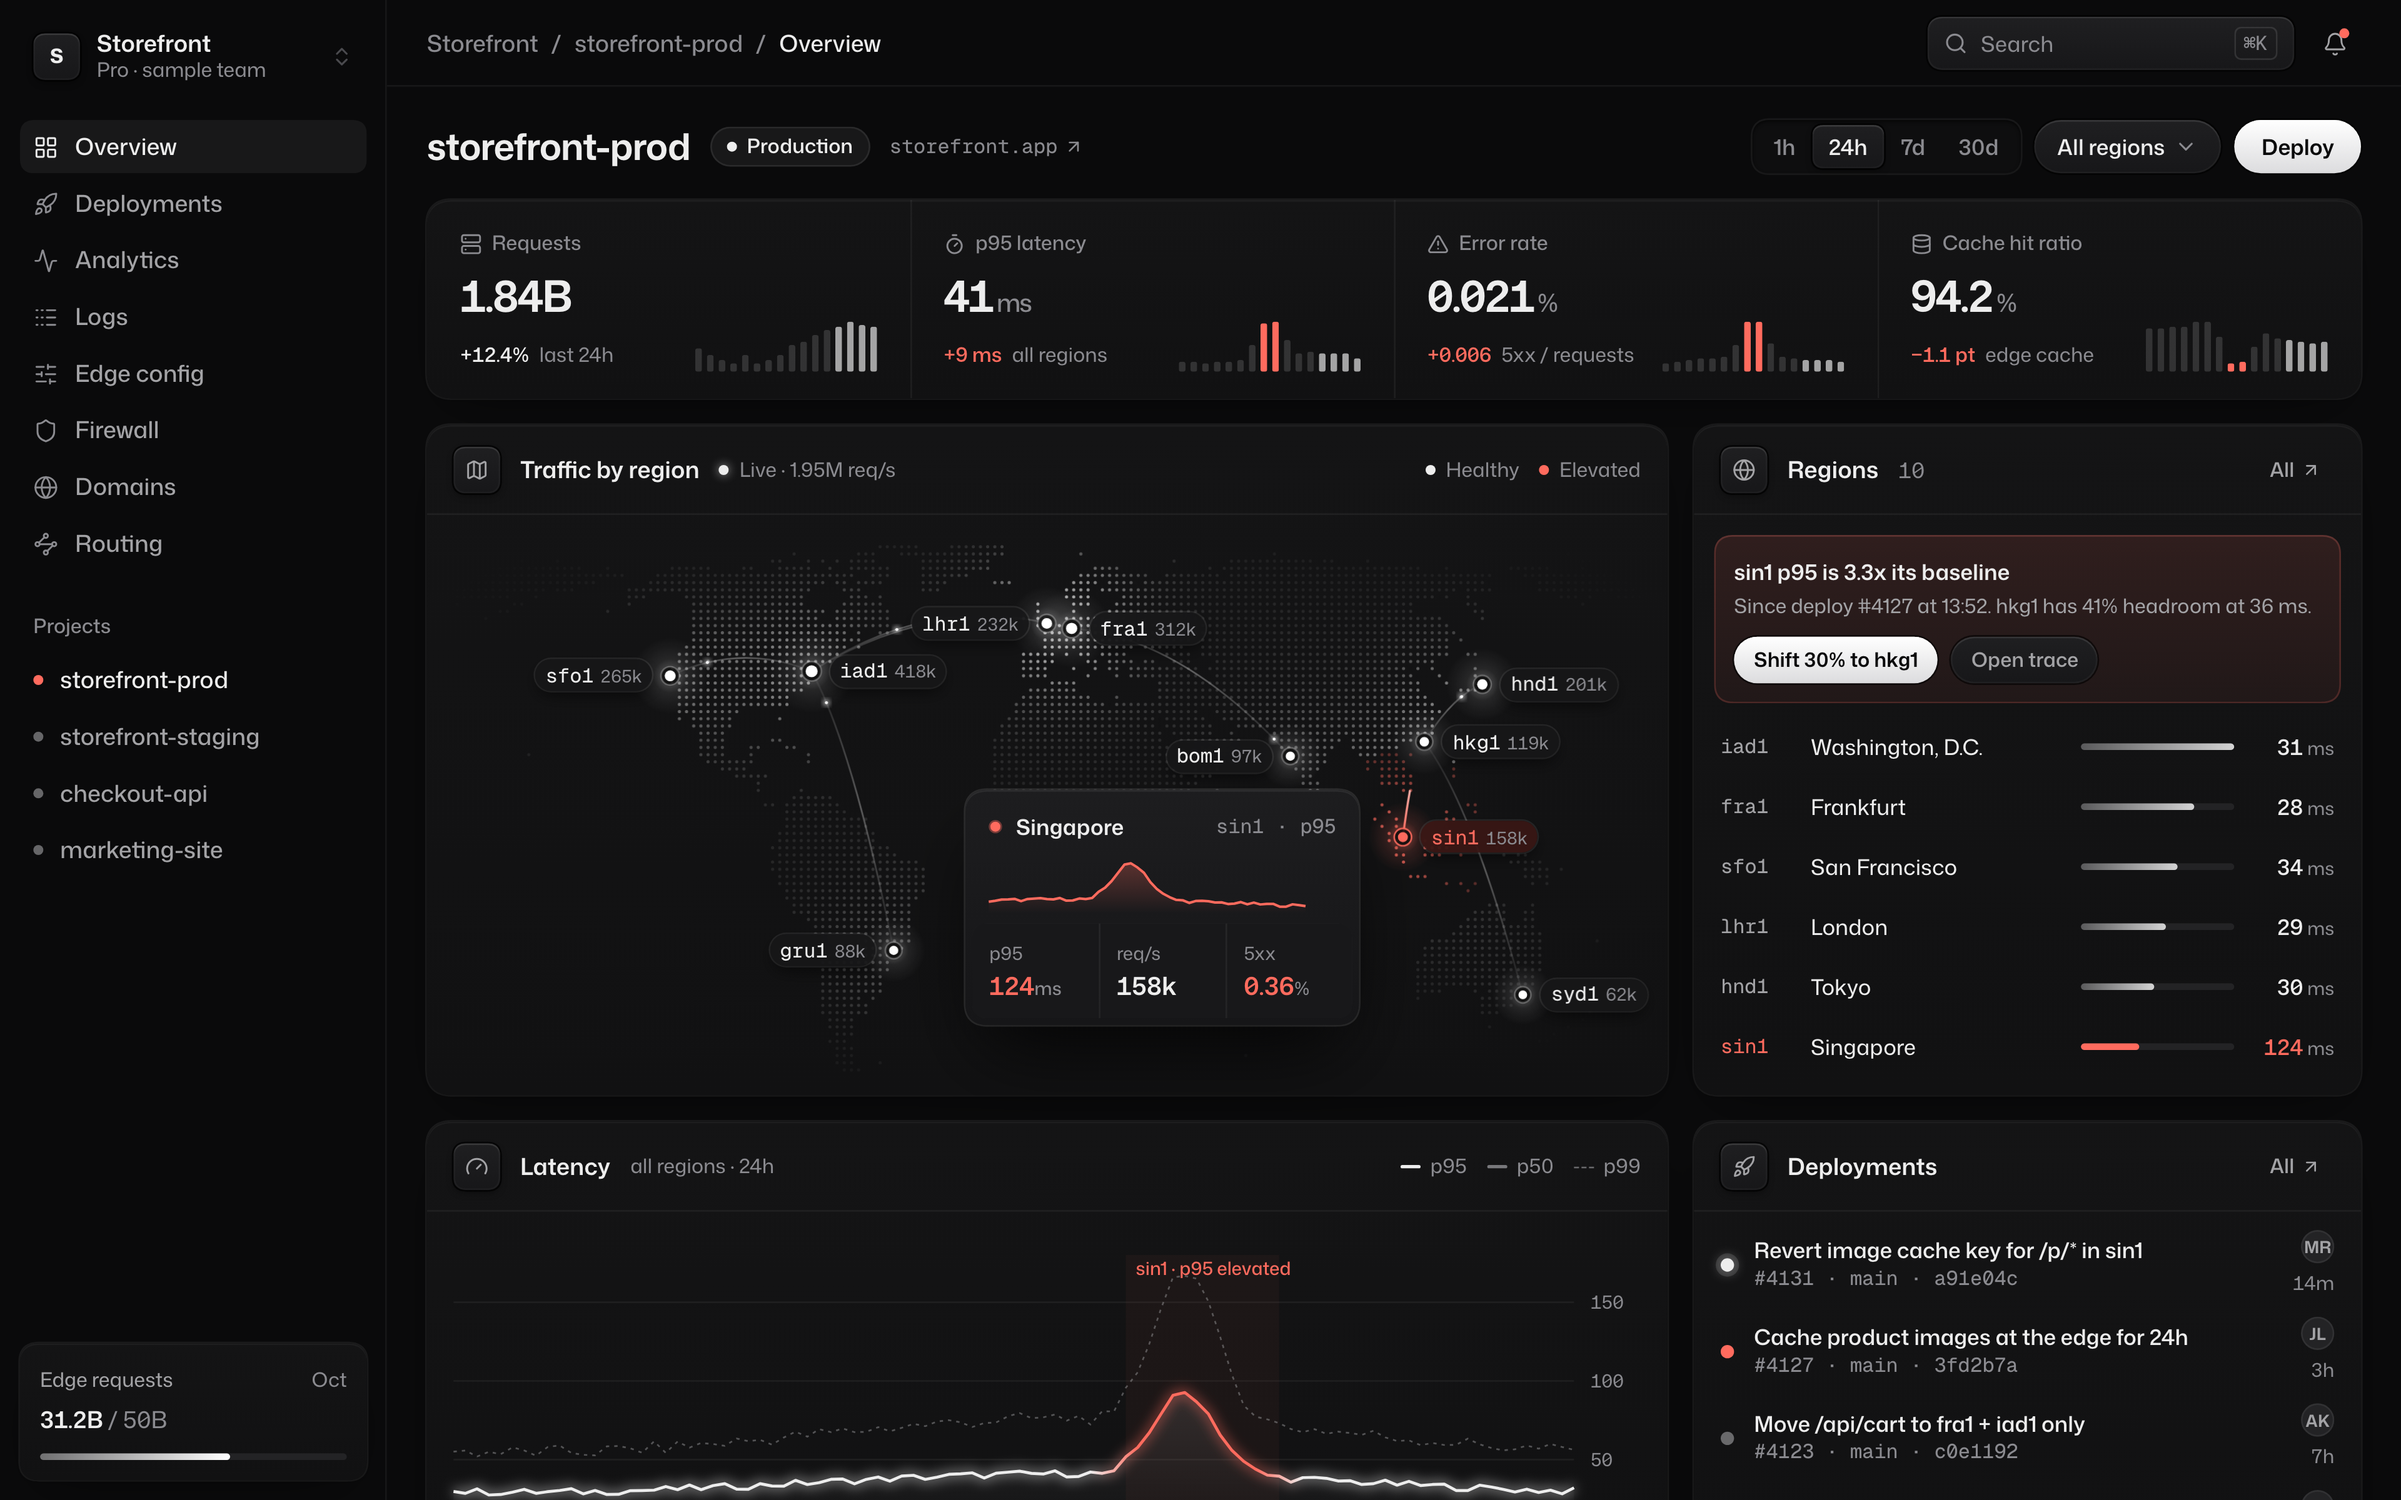
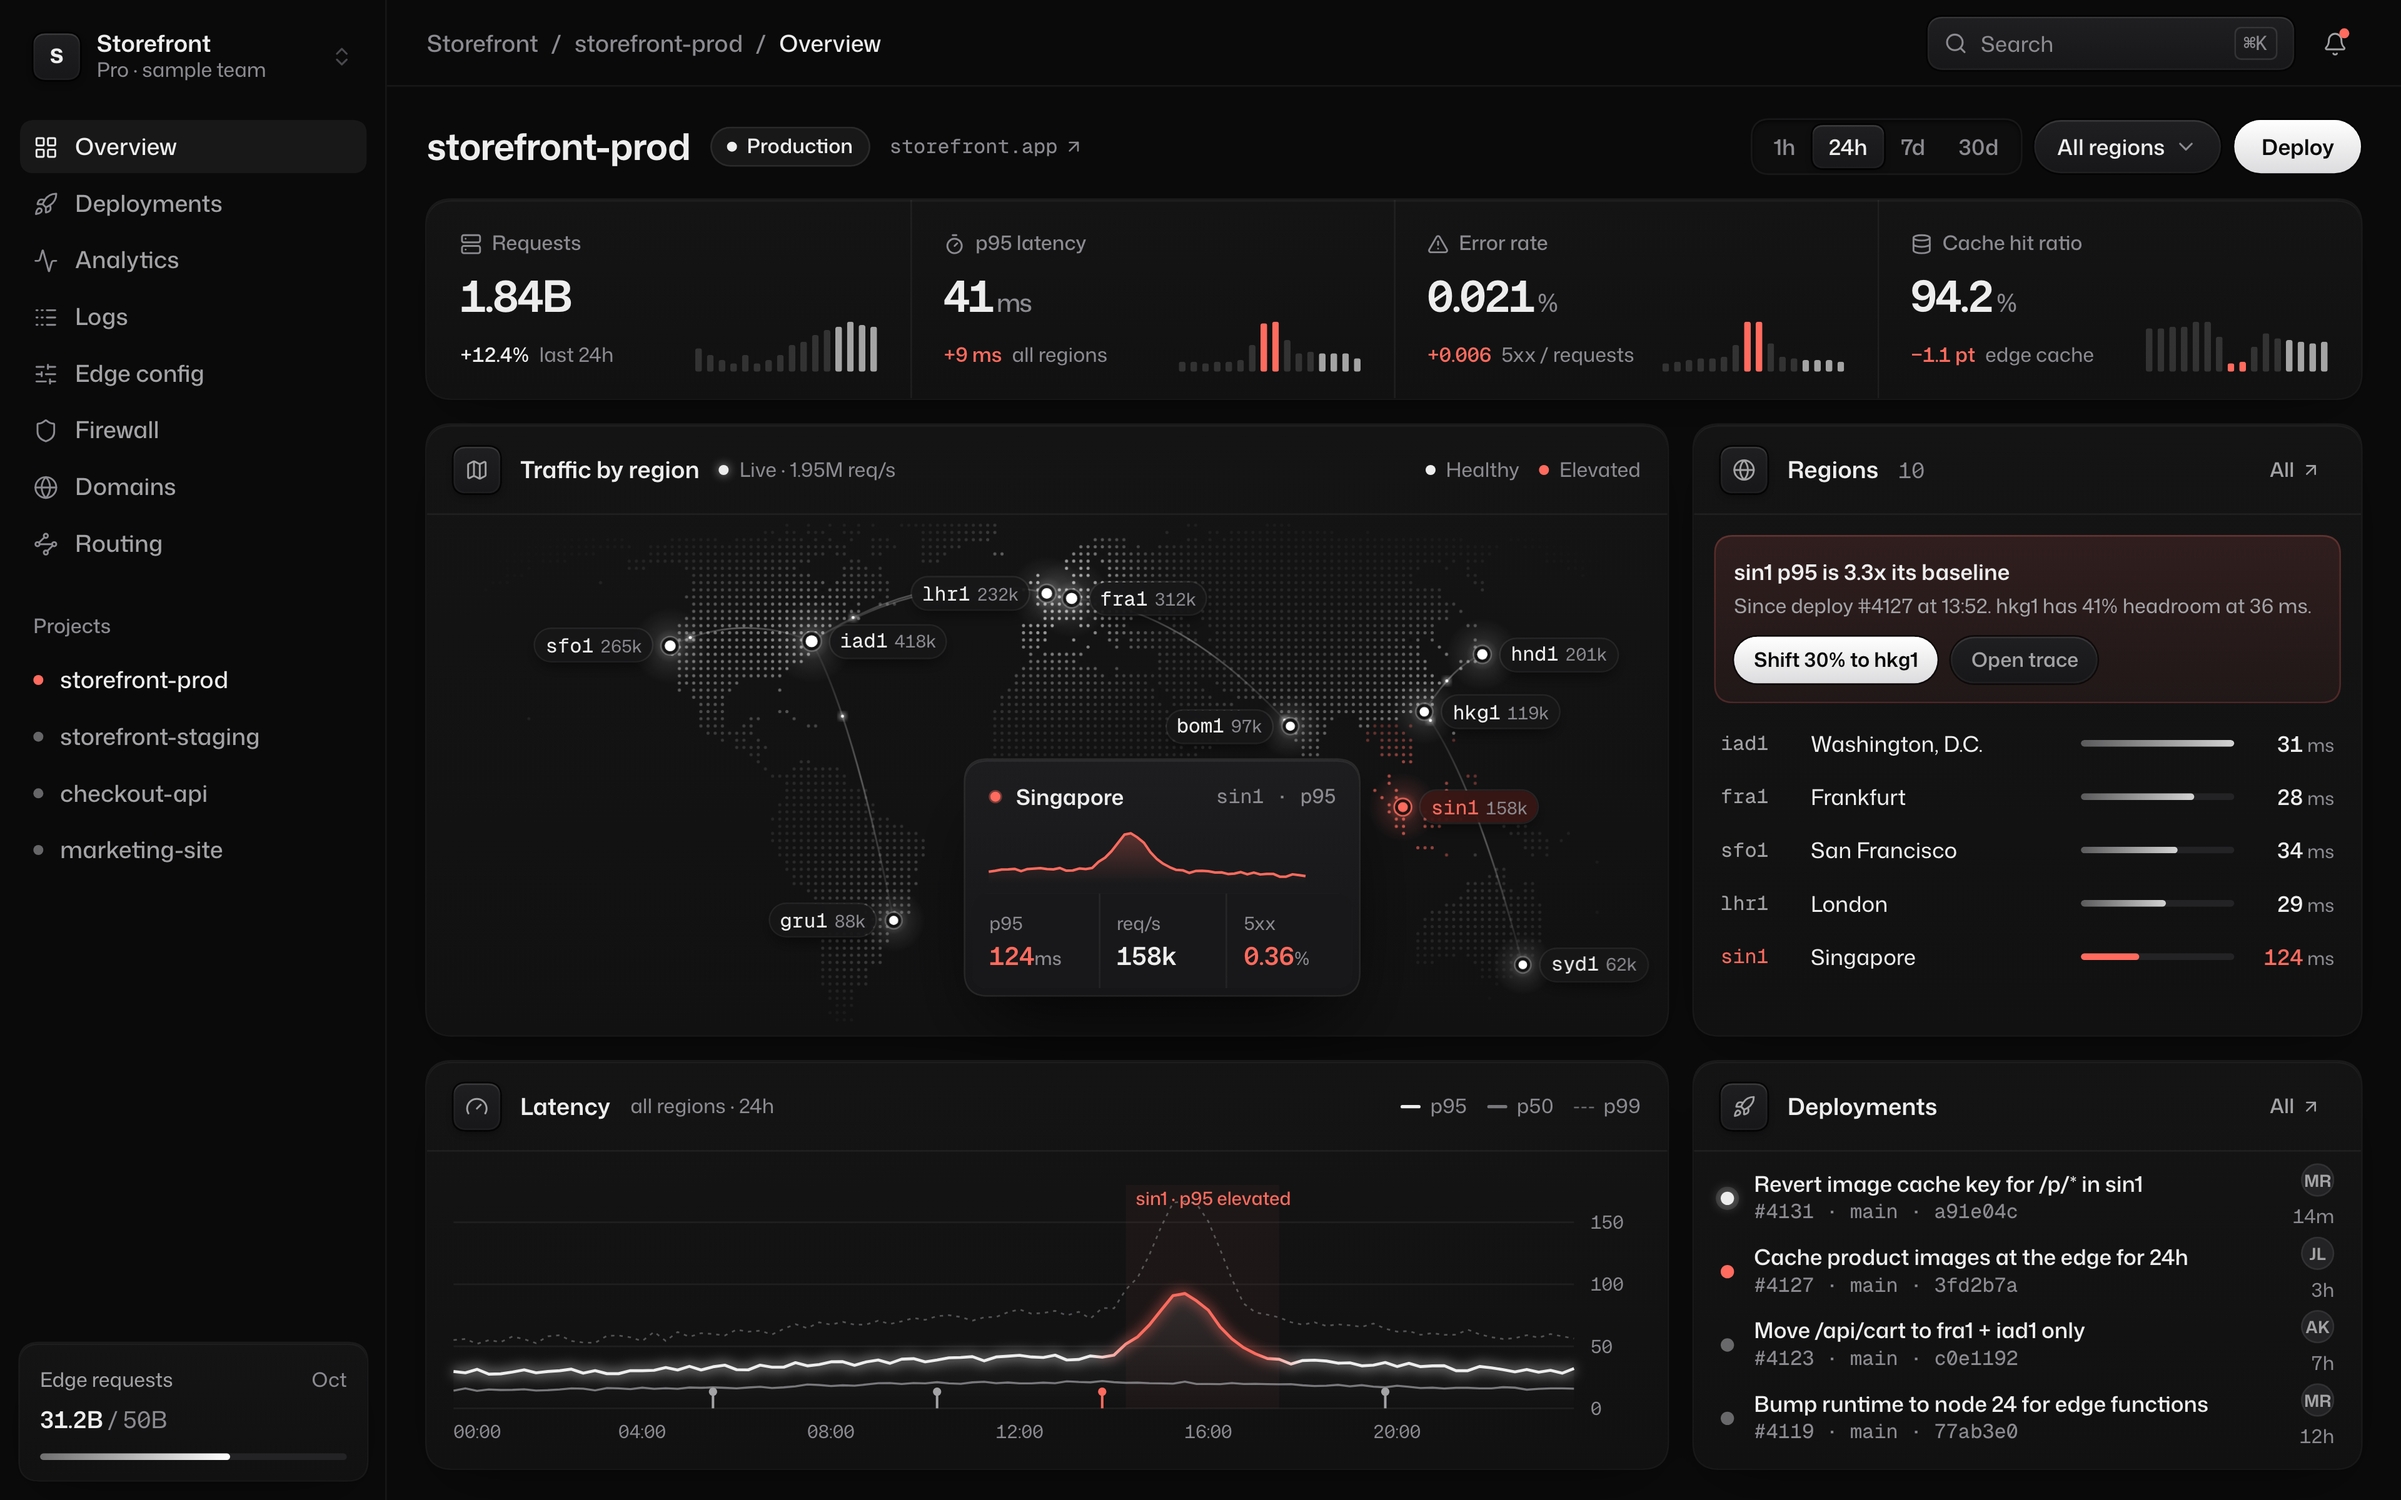
Kite: fit the whole dashboard in one 900px viewport (2400px at 4K): map 300, chart 170, 5 regions, 44px deploy rows

diff --git a/work/kite/app/src/App.tsx b/work/kite/app/src/App.tsx
@@ -145,10 +145,10 @@ export default function App() {
                 )}
                 </AnimatePresence>
                 <div className="flex-1 px-1.5 pb-1.5">
-                  {[...regions].sort((a, b) => b.rps - a.rps).slice(0, 6).map((r, ri) => {
+                  {[...regions].sort((a, b) => b.rps - a.rps).filter((r, _i, a) => r.state === "hot" || a.filter((q) => q.state !== "hot").indexOf(r) < 4).map((r, ri) => {
                     const bad = r.state === 'hot' && !rerouted && flared
                     return (
-                      <motion.div layout="position" initial={{ opacity: 0, x: 10 }} animate={{ opacity: 1, x: 0 }} transition={{ delay: T.regions + 0.3 + ri * 0.055, duration: 0.55, ease: ease.out, layout: { duration: 0.5, ease: ease.out } }} key={r.code} className="st grid h-9 grid-cols-[46px_1fr_92px_52px] items-center gap-2 rounded-[8px] px-2.5 hover:bg-[var(--hover)]">
+                      <motion.div layout="position" initial={{ opacity: 0, x: 10 }} animate={{ opacity: 1, x: 0 }} transition={{ delay: T.regions + 0.3 + ri * 0.055, duration: 0.55, ease: ease.out, layout: { duration: 0.5, ease: ease.out } }} key={r.code} className="st grid h-8 grid-cols-[46px_1fr_92px_52px] items-center gap-2 rounded-[8px] px-2.5 hover:bg-[var(--hover)]">
                         <span className={cx('mono transition-colors duration-500', bad ? 'text-[var(--red)]' : 'text-[var(--sub)]')}>{r.code}</span>
                         <span className="truncate text-[13px]">{r.city}</span>
                         <span className="h-1 overflow-hidden rounded-full bg-[var(--s3)]"><motion.span initial={{ width: 0 }} animate={{ width: `${(r.rps / 420000) * 100}%` }} transition={{ delay: T.regions + 0.45 + ri * 0.055, duration: 0.9, ease: ease.out }} className={cx('block h-full rounded-full transition-colors duration-500', bad ? 'bg-[var(--red)]' : 'bg-[linear-gradient(90deg,rgb(255_255_255/0.25),rgb(255_255_255/0.8))]')} /></span>
@@ -164,13 +164,13 @@ export default function App() {
               <Card at={T.latency}>
                 <Head icon={Gauge} title="Latency" meta={<span className="text-[12px] text-[var(--soft)]">all regions · 24h</span>}
                   right={<span className="flex items-center gap-3 text-[12px] text-[var(--soft)]"><span className="flex items-center gap-1.5"><span className="h-[2px] w-3 rounded-full bg-[#ededed]" />p95</span><span className="flex items-center gap-1.5"><span className="h-[2px] w-3 rounded-full bg-[var(--sub)] opacity-70" />p50</span><span className="flex items-center gap-1.5"><span className="h-px w-3 border-t border-dashed border-[var(--sub)] opacity-60" />p99</span></span>} />
-                <div className="px-4 pb-3 pt-3"><Chart at={T.latency} /></div>
+                <div className="px-4 pb-2 pt-2"><Chart at={T.latency} /></div>
               </Card>
               <Card at={T.deploys}>
                 <Head icon={Rocket} title="Deployments" right={<a href="#" className="st flex h-7 items-center gap-1 rounded-[8px] px-2 text-[12px] font-[550] text-[var(--sub)] hover:bg-[var(--hover)]">All<ArrowUpRight size={12} /></a>} />
                 <div className="px-1.5 pb-2 pt-1.5">
                   {deployments.map((d, di) => (
-                    <motion.div initial={{ opacity: 0, y: 8 }} animate={{ opacity: 1, y: 0 }} transition={{ delay: T.deploys + 0.3 + di * 0.07, duration: 0.55, ease: ease.out }} key={d.id} className="st flex h-[52px] items-center gap-3 rounded-[8px] px-2.5 hover:bg-[var(--hover)]">
+                    <motion.div initial={{ opacity: 0, y: 8 }} animate={{ opacity: 1, y: 0 }} transition={{ delay: T.deploys + 0.3 + di * 0.07, duration: 0.55, ease: ease.out }} key={d.id} className="st flex h-11 items-center gap-3 rounded-[8px] px-2.5 hover:bg-[var(--hover)]">
                       <span className={cx('size-2 shrink-0 rounded-full', d.state === 'rolled-back' ? 'bg-[var(--red)]' : d.state === 'building' ? 'bg-[#ededed] shadow-[0_0_0_3px_rgb(255_255_255/0.12),0_0_8px_rgb(255_255_255/0.5)]' : 'bg-[var(--sub)] opacity-60')} />
                       <span className="min-w-0 flex-1 leading-[17px]"><span className="block truncate text-[13px] font-[550]">{d.msg}</span><span className="mono block truncate text-[11.5px] text-[var(--soft)]">{d.id} · {d.branch} · {d.sha}</span></span>
                       <span className="flex flex-col items-end gap-0.5"><Avatar t={d.who} /><span className="tnum text-[11.5px] text-[var(--soft)]">{d.ago}</span></span>

diff --git a/work/kite/app/src/Chart.tsx b/work/kite/app/src/Chart.tsx
@@ -5,7 +5,7 @@ import { motion, useReducedMotion } from 'motion/react'
 import { ease } from './anim'
 import { deploys, series, timeLabel } from './data'
 
-const W = 712, H = 210, PT = 14, PB = 26, PR = 40, MAX = 180
+const W = 712, H = 170, PT = 12, PB = 24, PR = 40, MAX = 180
 const x = (i: number) => (i / (series.length - 1)) * (W - PR)
 const y = (v: number) => PT + (1 - v / MAX) * (H - PT - PB)
 const line = (k: 'p50' | 'p95' | 'p99') => series.map((d, i) => `${i ? 'L' : 'M'}${x(i).toFixed(1)} ${y(d[k]).toFixed(1)}`).join(' ')

diff --git a/work/kite/app/src/Map.tsx b/work/kite/app/src/Map.tsx
@@ -11,7 +11,7 @@ import { feature } from 'topojson-client'
 import land110 from 'world-atlas/land-110m.json'
 import { regions, series, fmtK } from './data'
 
-const W = 712, H = 336, STEP = 4.3
+const W = 712, H = 300, STEP = 4.3
 const FLOWS: [string, string][] = [['iad1', 'fra1'], ['iad1', 'sfo1'], ['iad1', 'gru1'], ['fra1', 'bom1'], ['hnd1', 'hkg1'], ['hkg1', 'syd1'], ['lhr1', 'iad1']]
 
 export default function Map({ rerouted = false, at = 0 }: { rerouted?: boolean; at?: number }) {
